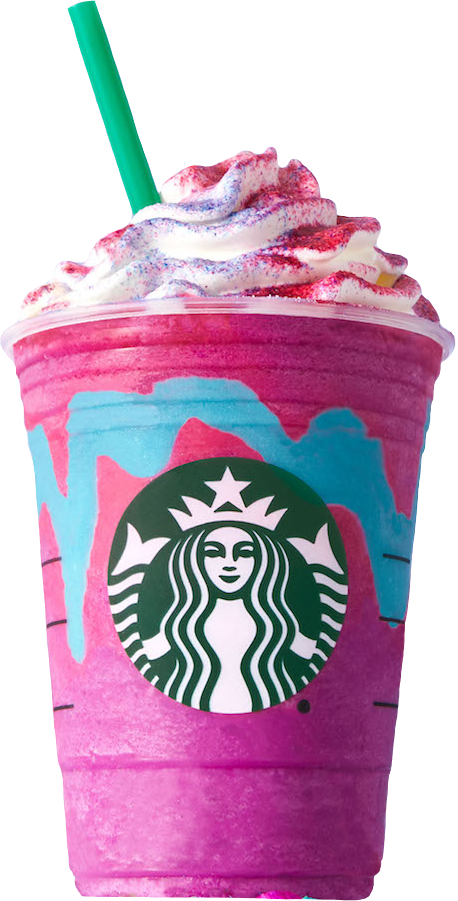
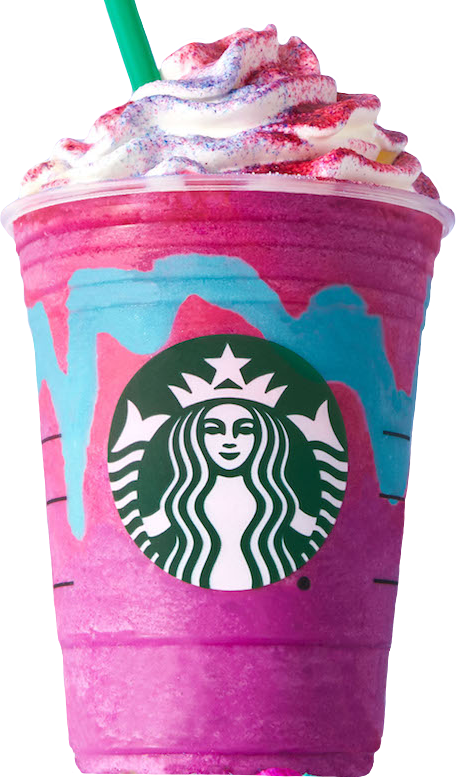
placements adjusted

diff --git a/style.css b/style.css
@@ -32,6 +32,7 @@ header
 
 .logo {
     width: 107px;
+    margin-left: -229px;
 }
 header ul
 {
@@ -48,9 +49,11 @@ header ul li a
 {
     /* display: inline-block; */
     color: #333;
-    font-weight: 400;
-    margin-left: 30px;
+    font-weight: 600;
+    margin-left: 40px;
+    /* margin-right: 2px; */
     text-decoration: none;
+    font-size: 20px;
 }
 .content{
 /* position: relative; */
@@ -70,14 +73,18 @@ align-items: center;
     font-size: 4em;
     line-height: 1.4em;
     font-weight: 500;
+    margin-left: 50px;
 }
  .textbox h2 span{
-    color: rgb(8, 65, 8);
+    color: rgb(14, 77, 14);
     font-size: 1.2em;
     font-weight: 900;
+    /* margin-left: 50px; */
 }
  .textbox p{
     color: #333;
+    margin-left: 50px;
+    font-size: 20px;
 }
  .textbox a{
     display: inline-block;
@@ -89,16 +96,17 @@ align-items: center;
     font-weight: 500;
     letter-spacing: 1px;
     text-decoration: none;
+    margin-left: 50px;
 }
  .imgbox{
 width: 50%;
 display: flex;
 justify-content: flex-end;
-padding-right: 50px;
+padding-right: 350px;
 margin-top: 50px;
 }
  .imgbox img{
-    max-width: 340px;
+    max-width: 330px;
 }
 .foot{
     display: flex;
@@ -117,8 +125,9 @@ margin-top: 50px;
     align-items: center;
 }
 .picture img{
-    width: 5%;
-    margin: 0 5px;
+    width: 7%;
+    margin: 0 20px;
     cursor: pointer;
+    margin-bottom: 20px;
     
 }

diff --git a/Starbucks.html b/Starbucks.html
@@ -22,8 +22,7 @@
                 <h2>It's not just a Coffee <br> It's <span>Starbucks</span></h2>
                 <p>Coffee is a brewed drink prepared from roasted coffee beans, the seeds of berries from certain Coffea
                     species. When coffee berries turn from green to bright red in color – indicating ripeness – they are
-                    picked, processed, and dried. Dried coffee seeds (referred to as "beans") are roasted to varying
-                    degrees, depending on the desired flavor. Roasted beans are ground and then brewed with near-boiling
+                    picked, processed, and dried.Roasted beans are ground and then brewed with near-boiling
                     water to produce the beverage known as coffee.</p>
                 <a href="#"> Learn More</a>
                 </div>
